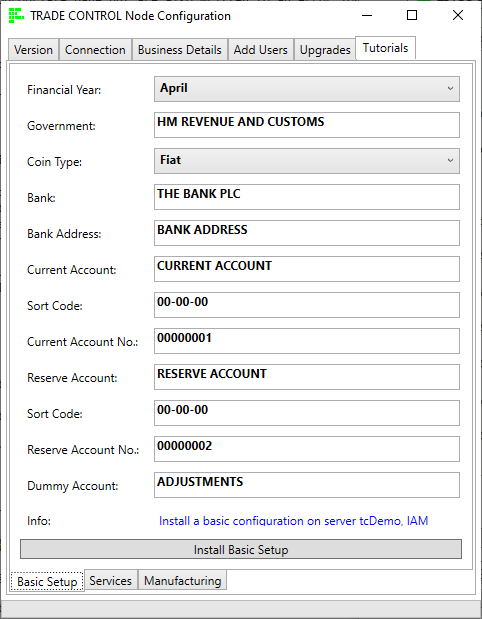
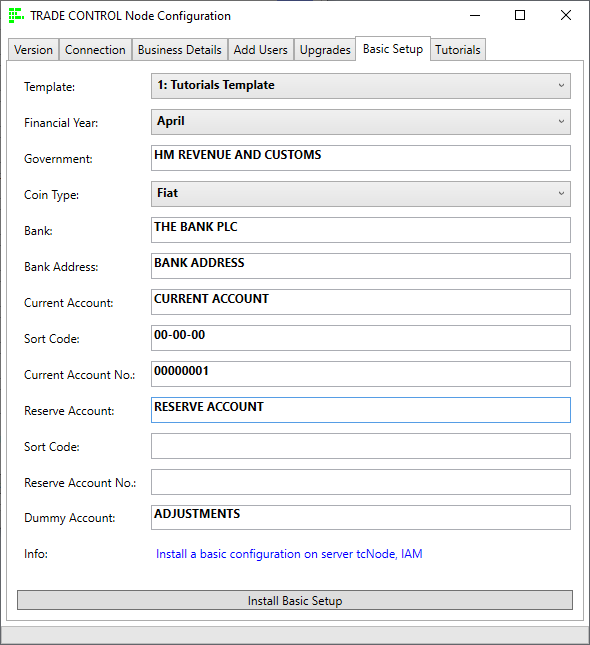
config templates
business configuration templates

Changed region(s): [[0.0, 0.0, 1.0, 0.9822], [0.8402, 0.0, 0.9025, 0.0307], [0.9336, 0.0, 0.9647, 0.0307]]

diff --git a/tutorials/installing-sqlnode.md b/tutorials/installing-sqlnode.md
@@ -84,23 +84,22 @@ New users are added by calling the procedure _Usr.proc_AddUser()_. It carries ou
 To get started, the system needs to know your financial year, the government of the presiding jurisdiction, your bank and at least one bank account. Here there are three, modelled by Cash Accounts:
 
 1. Current Account for trading
-2. Reserve Account for savings and tax
-3. Capital Account for storing assets and applying depreciation
+2. Reserve Account for savings and tax (Optional)
+3. Capital Account for storing assets and applying depreciation (Incorporated Entities)
 
 Bitcoin users do not use a bank or transact exchanges from bank accounts. Instead, their current and reserve accounts correspond to HD Wallets. Therefore, the basic setup has different defaults to that shown below.
 
-Login as a data user. Either enter your correct details if this is the live database, or just accept the defaults for the tutorial. If you do not have a reserve account, leave the defaults. You can edit/delete all these settings later from a client. 
-
+Login as a data user. Select the configuration template that best matches your requirements. For the tutorials, choose the correct template and enter a reserve account. If you do not have a reserve account, leave it blank. You can edit/delete all these settings later from a client. 
 
 ![Basic Setup]({{ site.url }}/images/tc_config_basic_setup.png)
 
-These settings are passed as parameters to the procedure _App.proc_BasicSetup_. It registers your Government and bank accounts, but also adds the following:
+Each template registers your government and bank accounts, then adds the following:
 
 - Units of Measure
 - Time Buckets
 - Tax Codes
 - Financial years and periods 
-- Cash and Category Codes
+- Cash and Category Codes for cash and assets
 - Cash Totals for net and gross profit
 - Corporation tax levels
 - Government and Cash Code assignment to Tax Types
